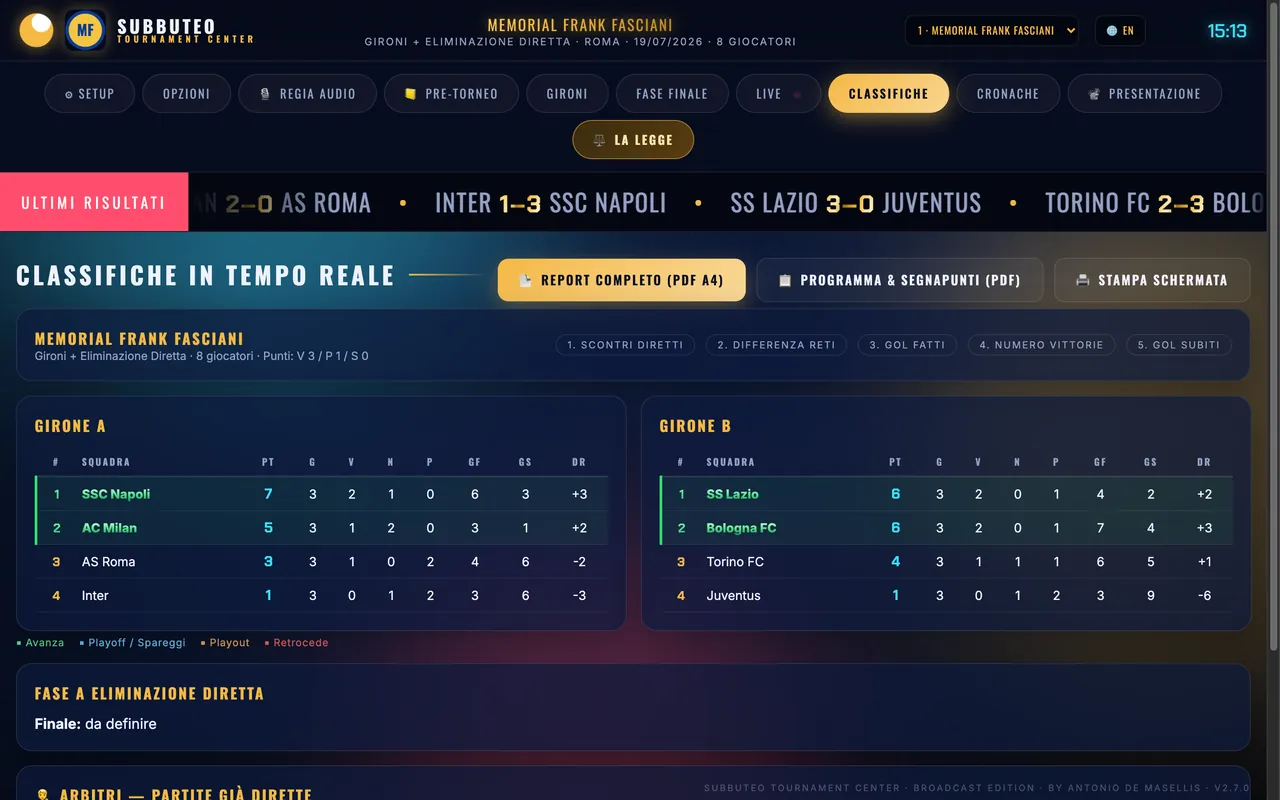
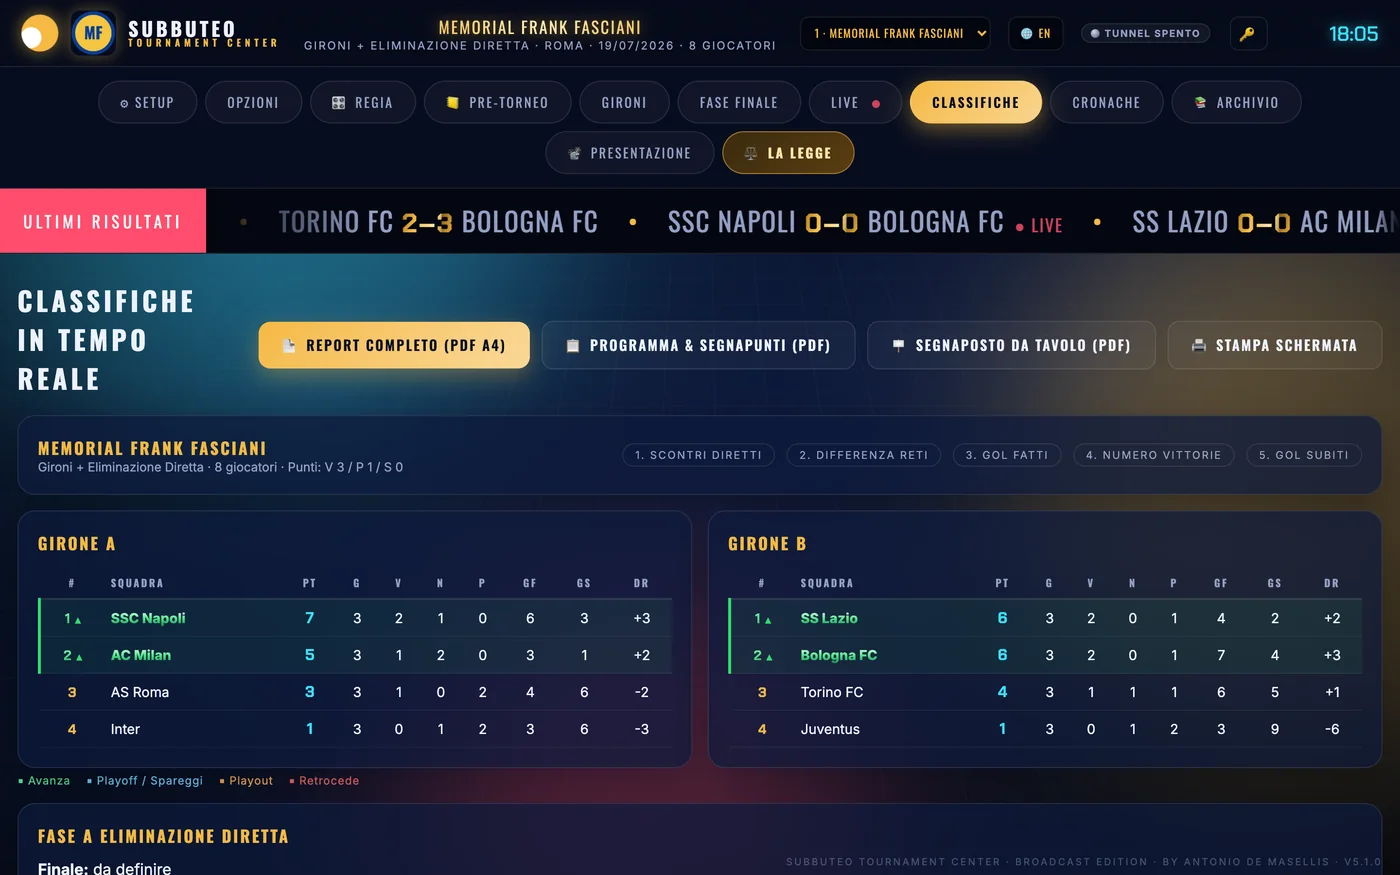
Screenshot rifatti sulla versione 5.1: sezione Regia unificata, spia del tunnel, striscia foto

diff --git a/index.html b/index.html
@@ -4,7 +4,7 @@
 <meta charset="utf-8">
 <meta name="viewport" content="width=device-width, initial-scale=1">
 <title>Subbuteo Tournament Center — il gestionale per i tornei di Calcio da Tavolo</title>
-<meta name="description" content="Organizza tornei di Subbuteo e Calcio da Tavolo con la regia di una diretta televisiva: 10 formule, sorteggio spettacolare, app per arbitri, capitani e replay, classifiche, foto e libro dei ricordi, manuale da 100 pagine. Demo gratuita per macOS, Windows e Linux; licenza completa 20 €.">
+<meta name="description" content="Organizza tornei di Subbuteo e Calcio da Tavolo con la regia di una diretta televisiva: 10 formule, sorteggio spettacolare, app per arbitri, capitani e replay, classifiche, foto e libro dei ricordi, manuale da 99 pagine. Demo gratuita per macOS, Windows e Linux; licenza completa 20 €.">
 <meta name="author" content="Antonio de Masellis">
 <meta property="og:title" content="Subbuteo Tournament Center">
 <meta property="og:description" content="Il torneo di Calcio da Tavolo, dalla prima iscrizione all'ultima premiazione.">
@@ -728,12 +728,13 @@ footer{border-top:1px solid var(--line);background:#050a10;padding:56px 0 40px;f
     <h2 class="rv">Quattro sezioni che non ti aspetti</h2>
     <div class="grid3 rv">
       <div class="card">
-        <span class="ic">🎙</span>
-        <h4>Regia Audio</h4>
-        <p>Il computer diventa un impianto voce: collega un microfono e parla al pubblico dalle casse,
-        con il pulsante rosso quando è spento e verde quando sei in onda. La musica si abbassa da sola
-        mentre parli. <b>Quarantacinque brani originali</b>, composti dall'autore e compresi nella
-        licenza, playlist personali, <b>dissolvenza incrociata</b> fra i pezzi e pausa sfumata al countdown.</p>
+        <span class="ic">🎛</span>
+        <h4>Regia</h4>
+        <p>Il banco di regia: il computer diventa un impianto voce — collega un microfono e parla al pubblico
+        dalle casse, con il pulsante rosso quando è spento e verde quando sei in onda, e la musica che si
+        abbassa da sola mentre parli. <b>Quarantacinque brani originali</b> dell'autore, compresi nella licenza,
+        con <b>dissolvenza incrociata</b> fra i pezzi. Da qui si collegano anche <b>tutti i telefoni</b>: chiave,
+        codici QR, dispositivi collegati, tunnel Internet e grafica per la diretta.</p>
       </div>
       <div class="card">
         <span class="ic">📒</span>
@@ -816,7 +817,7 @@ footer{border-top:1px solid var(--line);background:#050a10;padding:56px 0 40px;f
       <figure data-full="assets/shots/13_tv.webp"><img src="assets/shots/13_tv.webp" alt="TV di campo" loading="lazy"><figcaption>TV di campo</figcaption></figure>
       <figure data-full="assets/shots/08_finale.webp"><img src="assets/shots/08_finale.webp" alt="Tabellone della fase finale" loading="lazy"><figcaption>Fase finale</figcaption></figure>
       <figure data-full="assets/shots/09_cronache.webp"><img src="assets/shots/09_cronache.webp" alt="Cronache del torneo" loading="lazy"><figcaption>Cronache</figcaption></figure>
-      <figure data-full="assets/shots/17_audio_off.webp"><img src="assets/shots/17_audio_off.webp" alt="Regia Audio" loading="lazy"><figcaption>Regia Audio</figcaption></figure>
+      <figure data-full="assets/shots/17_audio_off.webp"><img src="assets/shots/17_audio_off.webp" alt="Regia" loading="lazy"><figcaption>Regia — speaker e musica</figcaption></figure>
       <figure data-full="assets/shots/19_pretorneo.webp"><img src="assets/shots/19_pretorneo.webp" alt="Pre-Torneo" loading="lazy"><figcaption>Pre-Torneo</figcaption></figure>
       <figure data-full="assets/shots/14_legge.webp"><img src="assets/shots/14_legge.webp" alt="La Legge" loading="lazy"><figcaption>La Legge</figcaption></figure>
             <figure data-full="assets/shots/21_realtorneo.webp"><img src="assets/shots/21_realtorneo.webp" alt="Torneo Reale" loading="lazy"><figcaption>Torneo Reale</figcaption></figure>
@@ -889,7 +890,7 @@ footer{border-top:1px solid var(--line);background:#050a10;padding:56px 0 40px;f
       <p><b>Non vuoi installare niente?</b> La stessa versione dimostrativa gira anche nel browser,
       su qualsiasi sistema operativo — utile per dare un'occhiata prima di scaricare mezzo giga.</p>
       <a class="btn sec" href="app/" target="_blank" rel="noopener" style="font-size:14px;padding:12px 22px">Apri nel browser</a>
-      <a class="btn sec" href="https://github.com/AdeMasel/subbuteo-tournament-center/releases/download/v5.1.0/Manuale-Subbuteo-Tournament-Center-5.1.pdf" style="font-size:14px;padding:12px 22px">Manuale PDF · 100 pagine</a>
+      <a class="btn sec" href="https://github.com/AdeMasel/subbuteo-tournament-center/releases/download/v5.1.0/Manuale-Subbuteo-Tournament-Center-5.1.pdf" style="font-size:14px;padding:12px 22px">Manuale PDF · 99 pagine</a>
     </div>
   </div>
 </section>
@@ -915,7 +916,7 @@ footer{border-top:1px solid var(--line);background:#050a10;padding:56px 0 40px;f
         <tr><td>Codici QR per App Campo, App Capitano e App Replay</td><td class="no">✕</td><td class="yes">✓</td></tr>
         <tr><td>Foto degli sfidanti e libro dei ricordi</td><td class="no">✕</td><td class="yes">✓</td></tr>
         <tr><td>Archivio storico: albo d'oro e classifica perpetua</td><td class="no">✕</td><td class="yes">✓</td></tr>
-        <tr><td>Regia Audio (microfono, musica, annunci)</td><td class="no">✕</td><td class="yes">✓</td></tr>
+        <tr><td>Regia (microfono, musica, annunci)</td><td class="no">✕</td><td class="yes">✓</td></tr>
         <tr><td>Pre-Torneo: quote, pagamenti, ricevute</td><td class="no">✕</td><td class="yes">✓</td></tr>
         <tr><td>La Legge: i tre regolamenti</td><td class="no">✕</td><td class="yes">✓</td></tr>
         <tr><td>Match Center, classifiche, cronache</td><td class="yes">✓</td><td class="yes">✓</td></tr>
@@ -975,7 +976,7 @@ footer{border-top:1px solid var(--line);background:#050a10;padding:56px 0 40px;f
           <li><b>Salvataggio</b>, richiamo ed esportazione dei tornei</li>
           <li><b>Gestione arbitrale</b> e assegnazione automatica dei campi</li>
           <li>Cerimonia di <b>sorteggio</b> e composizione dei gironi</li>
-          <li><b>Regia Audio</b> e La Legge, i regolamenti ufficiali</li>
+          <li><b>Regia</b> e La Legge, i regolamenti ufficiali</li>
           <li><b>Archivio storico</b>: albo d'oro, ranking, testa a testa</li>
           <li><b>Foto degli sfidanti</b> e libro dei ricordi in PDF</li>
           <li><b>Pre-Torneo</b> con quote, pagamenti e ricevute</li>
